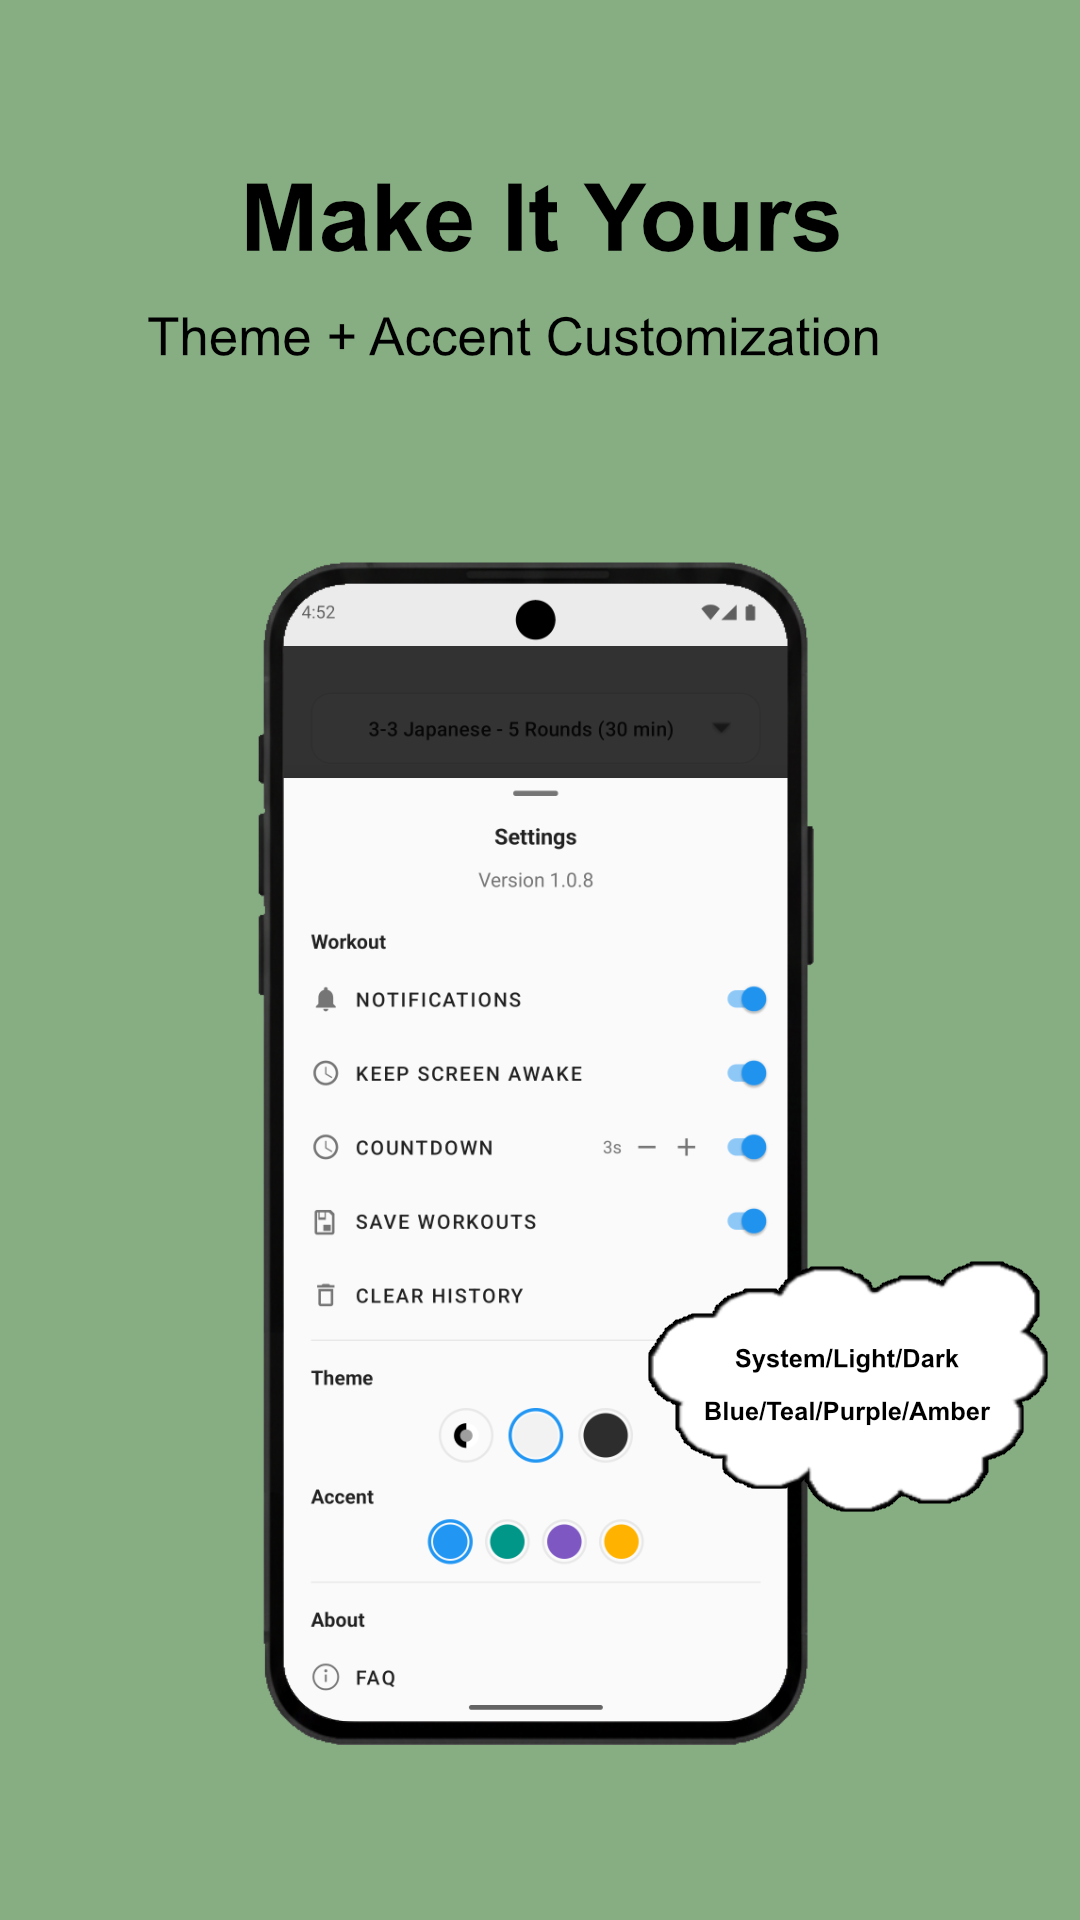
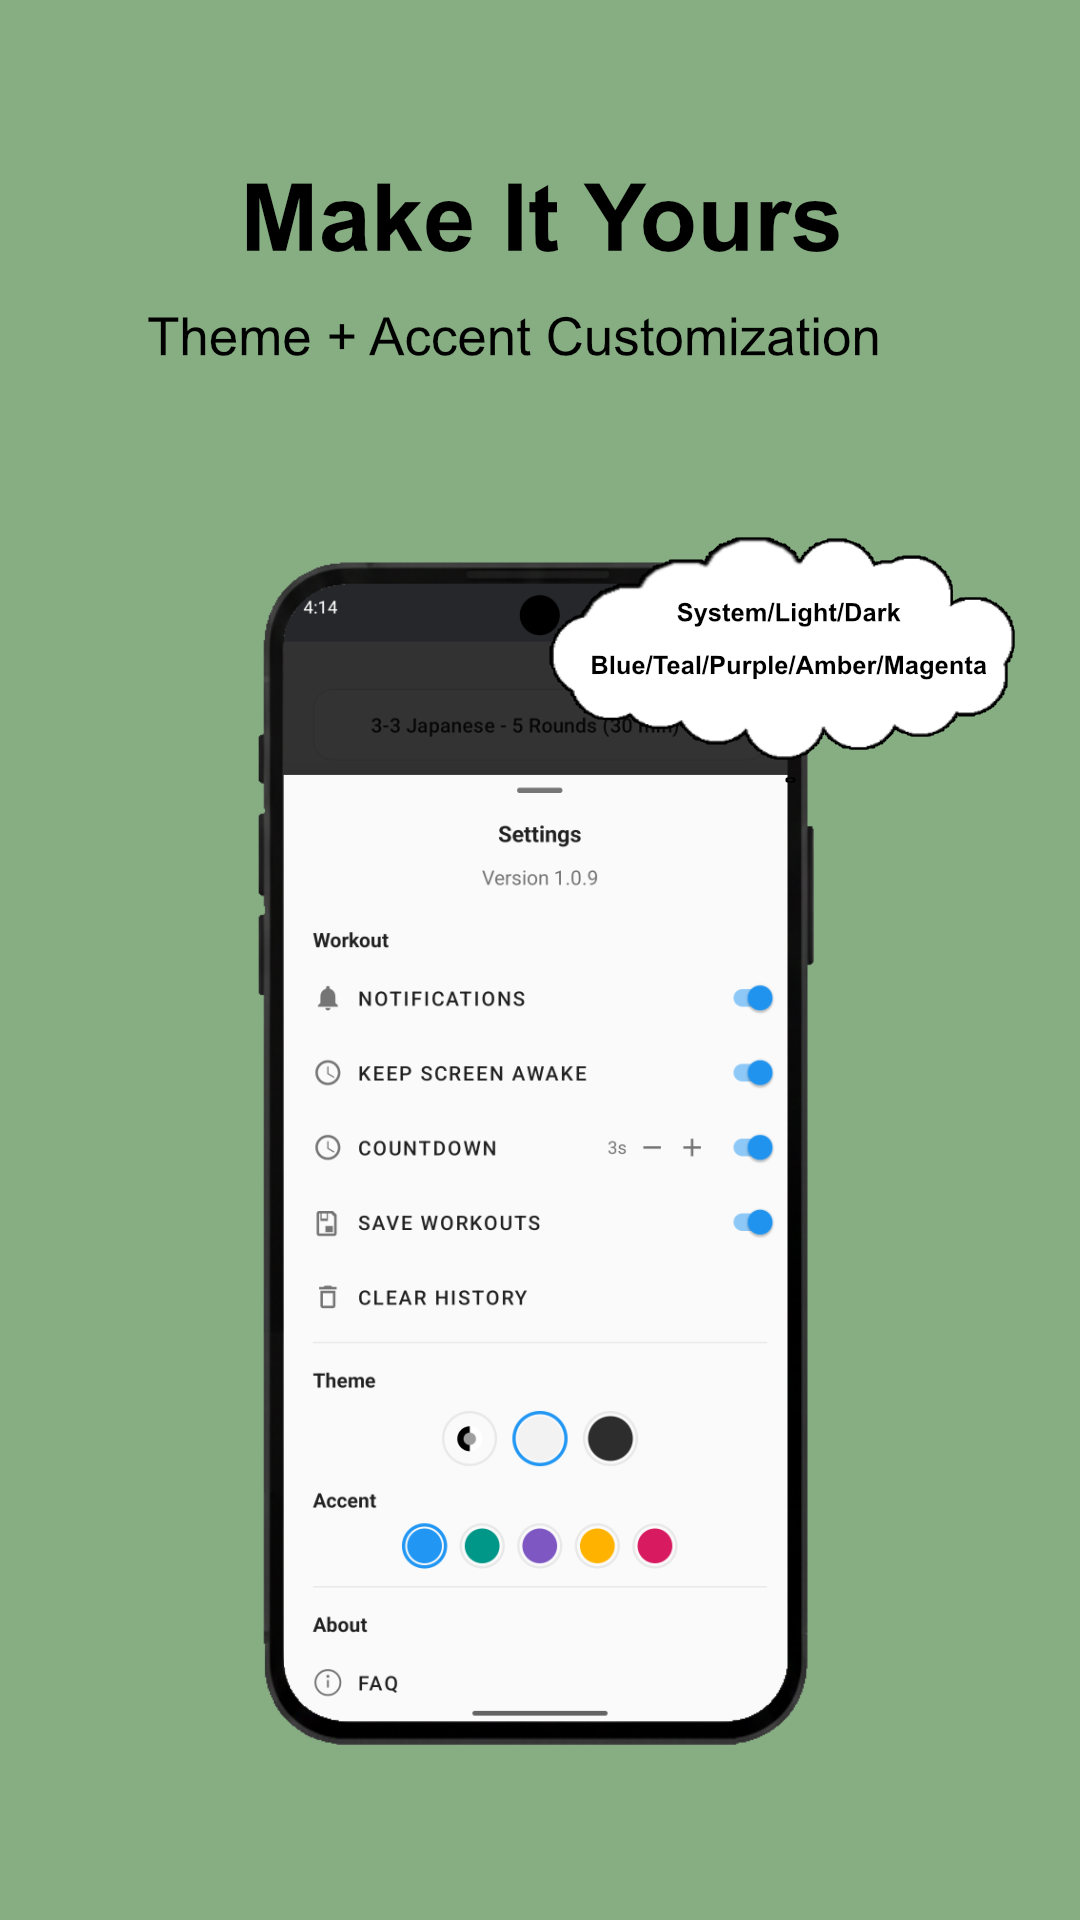
feat(release): v1.0.9
Add Magenta accent support and update release assets/docs.

diff --git a/app/src/main/java/com/oceanofmaya/intervalwalktrainer/MainActivity.kt b/app/src/main/java/com/oceanofmaya/intervalwalktrainer/MainActivity.kt
@@ -120,6 +120,7 @@ open class MainActivity : AppCompatActivity() {
         private const val ACCENT_TEAL = "teal"
         private const val ACCENT_PURPLE = "purple"
         private const val ACCENT_AMBER = "amber"
+        private const val ACCENT_MAGENTA = "magenta"
         private const val REQUEST_CODE_ACTIVITY_RECOGNITION = 1001
         private const val REQUEST_CODE_POST_NOTIFICATIONS = 1002
     }
@@ -888,6 +889,7 @@ open class MainActivity : AppCompatActivity() {
         val accentTealButton = view.findViewById<android.widget.ImageButton>(R.id.accentTealButton)
         val accentPurpleButton = view.findViewById<android.widget.ImageButton>(R.id.accentPurpleButton)
         val accentAmberButton = view.findViewById<android.widget.ImageButton>(R.id.accentAmberButton)
+        val accentMagentaButton = view.findViewById<android.widget.ImageButton>(R.id.accentMagentaButton)
         var saveWorkoutsSwitchRef: com.google.android.material.switchmaterial.SwitchMaterial? = null
         var notificationsSwitchRef: com.google.android.material.switchmaterial.SwitchMaterial? = null
         var keepScreenAwakeSwitchRef: com.google.android.material.switchmaterial.SwitchMaterial? = null
@@ -913,6 +915,7 @@ open class MainActivity : AppCompatActivity() {
             applySelection(accentTealButton, selectedAccent == ACCENT_TEAL)
             applySelection(accentPurpleButton, selectedAccent == ACCENT_PURPLE)
             applySelection(accentAmberButton, selectedAccent == ACCENT_AMBER)
+            applySelection(accentMagentaButton, selectedAccent == ACCENT_MAGENTA)
         }
 
         fun applyDialogSwitchTints() {
@@ -986,6 +989,11 @@ open class MainActivity : AppCompatActivity() {
         accentAmberButton.setOnClickListener { btn ->
             hapticSelection(btn)
             setAccentStyle(ACCENT_AMBER)
+        }
+
+        accentMagentaButton.setOnClickListener { btn ->
+            hapticSelection(btn)
+            setAccentStyle(ACCENT_MAGENTA)
         }
         
         // Clear stats button
@@ -1281,6 +1289,7 @@ open class MainActivity : AppCompatActivity() {
             ACCENT_TEAL -> R.color.accent_teal
             ACCENT_PURPLE -> R.color.accent_purple
             ACCENT_AMBER -> R.color.accent_amber
+            ACCENT_MAGENTA -> R.color.accent_magenta
             else -> R.color.accent_blue
         }
     }

diff --git a/app/src/main/java/com/oceanofmaya/intervalwalktrainer/StatsActivity.kt b/app/src/main/java/com/oceanofmaya/intervalwalktrainer/StatsActivity.kt
@@ -229,6 +229,7 @@ class StatsActivity : AppCompatActivity() {
         private const val ACCENT_TEAL = "teal"
         private const val ACCENT_PURPLE = "purple"
         private const val ACCENT_AMBER = "amber"
+        private const val ACCENT_MAGENTA = "magenta"
     }
 
     private fun getAccentStyle(): String {
@@ -240,6 +241,7 @@ class StatsActivity : AppCompatActivity() {
             ACCENT_TEAL -> R.color.accent_teal
             ACCENT_PURPLE -> R.color.accent_purple
             ACCENT_AMBER -> R.color.accent_amber
+            ACCENT_MAGENTA -> R.color.accent_magenta
             else -> R.color.accent_blue
         }
     }

diff --git a/README.md b/README.md
@@ -53,7 +53,7 @@ These scripts are utilities to optimize Play Store assets and are not required f
 - Vibration patterns: gentle for slow, strong double-pulse for fast
 - Voice notifications: optional text-to-speech announcements with early timing for phase changes
 - **Themes**: System (follows device), Light, or Dark (selected in Settings)
-- **Accent styles**: Blue, Teal, Purple, or Amber accent swatches in Settings
+- **Accent styles**: Blue, Teal, Purple, Amber or Magenta accent swatches in Settings
 - Runs in background: continues working when phone is locked
 - Minimalist design with large, readable timer
 - Progress tracking: current interval and total intervals
@@ -113,7 +113,7 @@ Three pre-configured formulas covering the main training patterns. Additional va
    - Keep Screen Awake (foreground-only behavior)
    - Countdown on/off and countdown seconds (1-10)
    - Save Workouts toggle and theme selection (System, Light, Dark) with compact swatches
-   - Accent selection (Blue, Teal, Purple, Amber) for interactive UI highlights
+   - Accent selection (Blue, Teal, Purple, Amber, Magenta) for interactive UI highlights
    - FAQ, Privacy Policy, and Terms of Service
 4. Tap **Start** to begin (a short countdown appears if enabled)
 5. Monitor progress using the progress bar and elapsed/remaining time displays

diff --git a/CHANGELOG.md b/CHANGELOG.md
@@ -2,6 +2,12 @@
 
 ## Version 1
 
+### 1.0.9 - 2026-02-23
+
+#### UI/UX Improvements
+
+- Added a new Magenta accent swatch in Settings > Accent.
+
 ### 1.0.8 - 2026-02-22
 
 #### UI/UX Improvements
